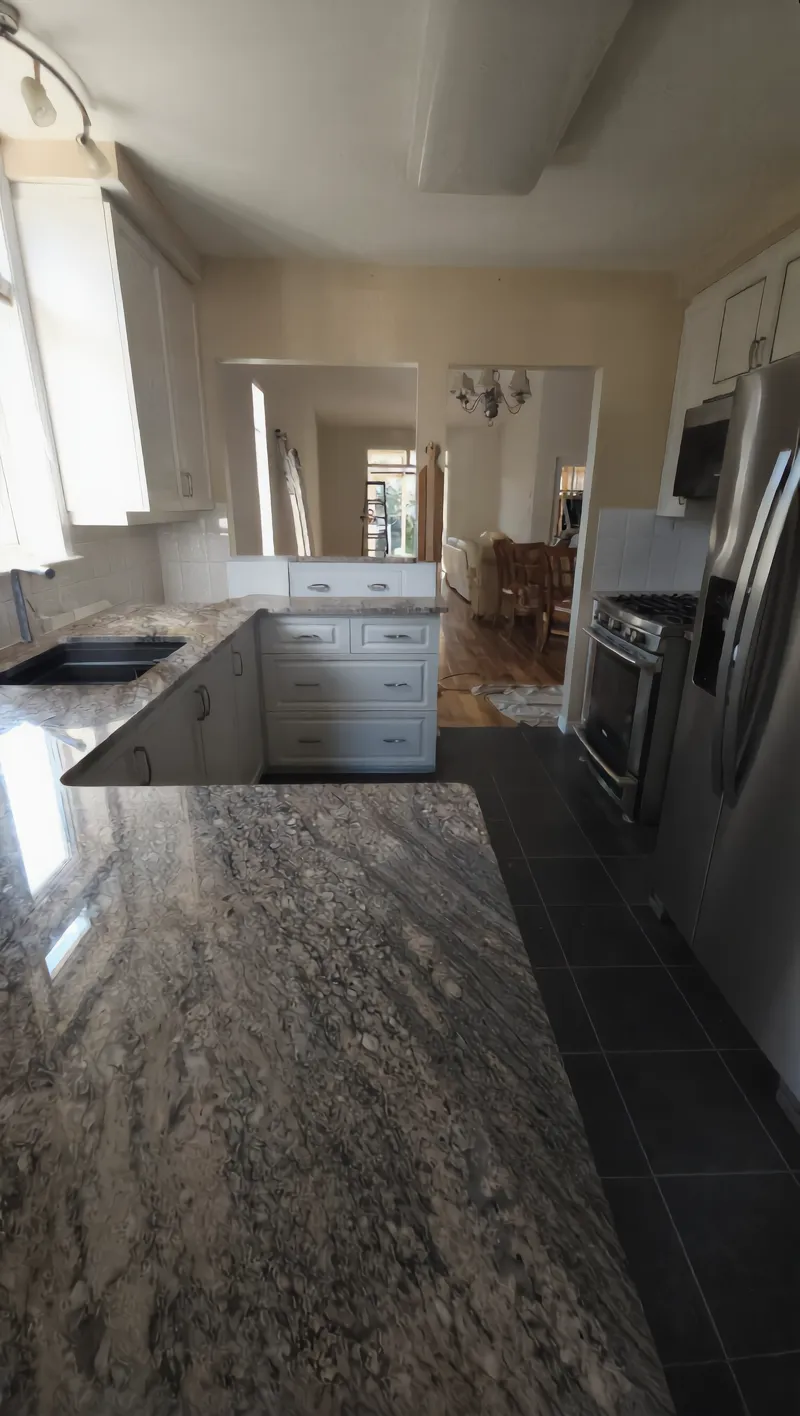
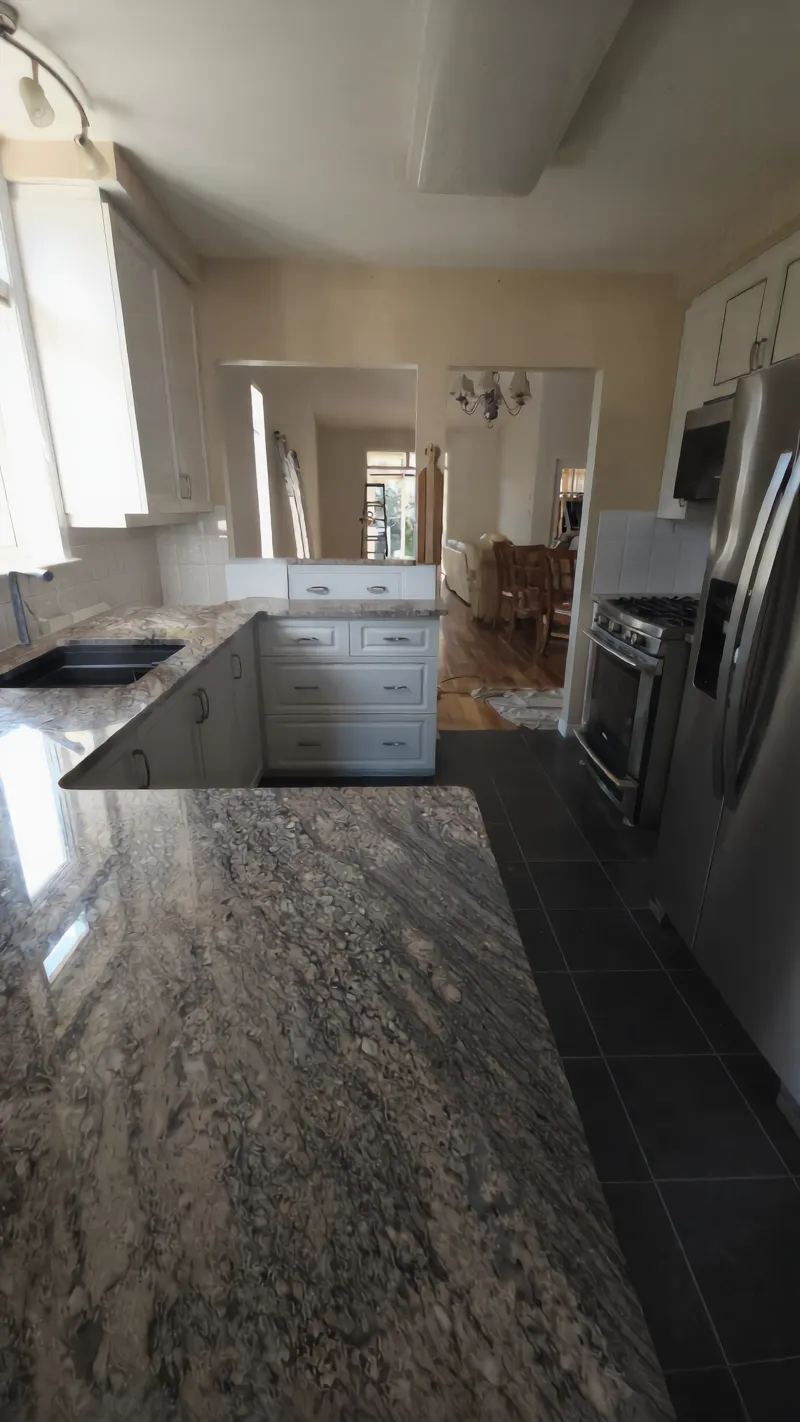
The decluttering pair, and all four stills to one size.
The replacement after is shot from where the before was shot: inside the garage
looking at the back wall, with the door overhead. The landmarks carry across,
the side door and its wooden frame, the grey drawers under it, the hooks and
the red pull cord, so the two read as one room emptied rather than two rooms.
The first one could not: it was taken from the driveway looking in.

Both are cut to 800 by 1422 rather than scaled to whatever height each source
happened to give, which is what was asked for. The cleaning pair was 1420 and
1416, so it is cut the same way now. The frames were already identical on the
page, since the panel sets the proportion and the image covers it, but files
that differ invite the question every time somebody opens the folder.

diff --git a/src/content/serviceMedia.js b/src/content/serviceMedia.js
@@ -62,9 +62,11 @@ export const SERVICE_MEDIA = {
         `${DECLUTTER}/declutter-09.webp`,
       ],
     },
-    // No pair yet. The after we hold was taken from the driveway looking in,
-    // and every before we hold was taken from inside the garage, so the two
-    // cannot line up. The labelled empty frames stay until there is a pair.
+    beforeAfter: {
+      ratio: '9 / 16',
+      before: `${DECLUTTER}/declutter-before.webp`,
+      after: `${DECLUTTER}/declutter-after.webp`,
+    },
     reel: {
       ratio: '9 / 8',
       src: '/videos/declutter-crew.mp4',
